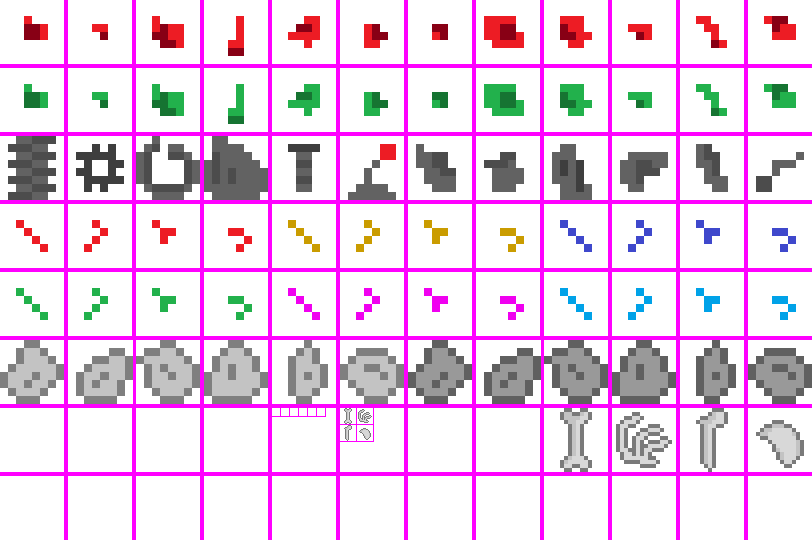
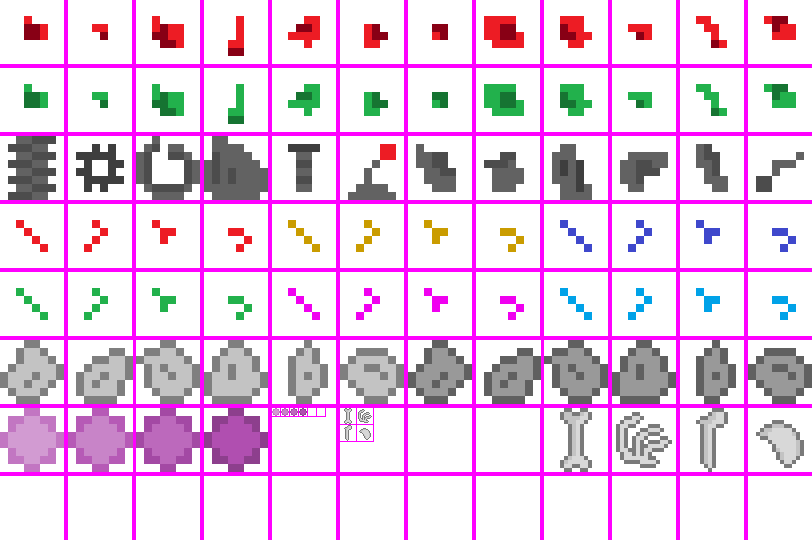
gel blob particle

Changed region(s): [[0.0, 0.7407, 0.3387, 0.8889], [0.3387, 0.7407, 0.4002, 0.7704]]

diff --git a/app/src/gameplay/entities/monsters/gelcube.js b/app/src/gameplay/entities/monsters/gelcube.js
@@ -21,6 +21,7 @@ class GelCube extends _Monster {
 
     _onDamaged(d){
         super._onDamaged(d);
+        ParticleSpawner.createExplosion(GelBlobParticle, this.x, this.y, Util.randInt(1, d/2));
     }
 
     _onExpire(){
@@ -34,15 +35,13 @@ class GelCube extends _Monster {
                 monster.awaken();
             }
         }
+        ParticleSpawner.createExplosion(GelBlobParticle, this.x, this.y, Util.randInt(20, 30));
     }
 
     _doExist(thisEntity){
         var p = StageManager.currentStage.player;
         var dir = thisEntity.getDirectionToPoint(p.x, p.y);
         var dist = thisEntity.getDistanceToPoint(p.x, p.y);
-        // if(dist < 9) {
-        //     thisEntity.rocketAttack.execute();
-        // }
         thisEntity.travel(dir);
         thisEntity.turn(dir);
         thisEntity.checkForInWall();
@@ -76,6 +75,7 @@ class GelCubeSmall extends GelCube {
                 monster.awaken();
             }
         }
+        ParticleSpawner.createExplosion(GelBlobParticle, this.x, this.y, Util.randInt(10, 15));
     }
 
     _onCollisionWithPlayer(entity){
@@ -96,7 +96,7 @@ class GelCubeTiny extends GelCube {
     }
 
     _onExpire(){
-        // todo
+        ParticleSpawner.createExplosion(GelBlobParticle, this.x, this.y, Util.randInt(3, 6));
     }
 
     _onCollisionWithPlayer(entity){

diff --git a/app/src/gameplay/entities/projectiles/playerProjectiles/weapon4R3Projectile.js b/app/src/gameplay/entities/projectiles/playerProjectiles/weapon4R3Projectile.js
@@ -7,10 +7,10 @@ class Weapon4R3Projectile extends _DamagingProjectile {
         super(parentEntity, direction, x, y);
 
         this.speed = Util.randFloat(0.12, 0.16);
-        this.minDmg = 1;
+        this.minDmg = 2;
         this.maxDmg = 3;
-        this.duration = Util.randInt(40, 80);
-        this.accuracy = 92;
+        this.duration = Util.randInt(40, 50);
+        this.accuracy = 94;
         
         this.tileX = 8;
         this.tileY = 1;
@@ -26,7 +26,7 @@ class Weapon4R3Projectile extends _DamagingProjectile {
 
     _onExpire(){
         super._onExpire();
-        ParticleSpawner.createExplosion(RedSparkParticle,  this.x, this.y, Util.randInt(3, 5));
+        ParticleSpawner.createExplosion(RedSparkParticle,  this.x, this.y, Util.randInt(2, 4));
     }
 
 }

diff --git a/app/index.html b/app/index.html
@@ -77,6 +77,7 @@
 	<script src="src/gameplay/entities/particles/boneParticle.js"></script>
 	<script src="src/gameplay/entities/particles/sparkParticle.js"></script>
 	<script src="src/gameplay/entities/particles/smokeParticle.js"></script>
+	<script src="src/gameplay/entities/particles/gelBlobParticle.js"></script>
 	<script src="src/gameplay/entities/particles/particleSpawner.js"></script>
 	<script src="src/gameplay/entities/players/player.js"></script>
 	<script src="src/gameplay/entities/monsters/_monster.js"></script>

diff --git a/app/templates/inGameGui.html b/app/templates/inGameGui.html
@@ -44,6 +44,10 @@
             <img class='battery-img' src="../app/assets/images/icons/shield.png">
             <span class='hud-value-span defence'>0</span>
         </div>
+        <div>
+            <img class='battery-img' src="../app/assets/images/icons/key_magenta.png">
+            <img class='battery-img' src="../app/assets/images/icons/key_cyan.png">
+        </div>
     </div>
     <div id='in-game-menus-div'></div>
 </div>

diff --git a/app/src/gameplay/entities/particles/gelBlobParticle.js b/app/src/gameplay/entities/particles/gelBlobParticle.js
@@ -1,0 +1,17 @@
+"use strict";
+class GelBlobParticle extends _Particle {
+
+    constructor(direction, x, y){
+        super(direction, x, y);
+        this.duration = Util.randInt(30, 60);
+        this.displaySize = Util.randFloat(0.1, 0.3);
+        this.speed = Util.randFloat(0.01, 0.04);
+        this.tileX = Util.randInt(0, 3);
+        this.tileY = 6;
+    }
+S
+    animate(){
+        this.rotate(2);
+    }
+
+}

diff --git a/app/src/gameplay/entities/monsters/ghost.js b/app/src/gameplay/entities/monsters/ghost.js
@@ -15,7 +15,7 @@ class Ghost extends _Monster {
 
     _onDamaged(d){
         super._onDamaged(d);
-        ParticleSpawner.createExplosion(RedSparkParticle, this.x, this.y, Util.randInt(1, 1/d));
+        ParticleSpawner.createExplosion(RedSparkParticle, this.x, this.y, Util.randInt(1, d/2));
     }
 
     _onExpire(){

diff --git a/app/src/gameplay/entities/monsters/zombie.js b/app/src/gameplay/entities/monsters/zombie.js
@@ -14,7 +14,7 @@ class Zombie extends _Monster {
 
     _onDamaged(d){
         super._onDamaged(d);
-        ParticleSpawner.createExplosion(BloodParticle, this.x, this.y, Util.randInt(1, 1/d));
+        ParticleSpawner.createExplosion(BloodParticle, this.x, this.y, Util.randInt(1, d/2));
     }
 
     _onExpire(){

diff --git a/app/src/gameplay/entities/players/player.js b/app/src/gameplay/entities/players/player.js
@@ -214,4 +214,9 @@ class Player extends _Character {
         }
     }
 
+    _onDamaged(damage){
+        super._onDamaged(damage);
+        ParticleSpawner.createExplosion(BloodParticle, this.x, this.y, Util.randInt(1, damage/2));
+    }
+
 }

diff --git a/util/cutout_icons.py b/util/cutout_icons.py
@@ -35,6 +35,9 @@ create_icon(items, 'weapon-8-b1', (7, 1))
 create_icon(items, 'weapon-9-b2', (8, 1))
 create_icon(items, 'weapon-10-b3', (9, 1))
 
+create_icon(items, 'key_magenta', (6, 0))
+create_icon(items, 'key_cyan', (7, 0))
+
 create_icon(misc, 'heart', (2, 0))
 create_icon(misc, 'shield', (4, 0))
 
